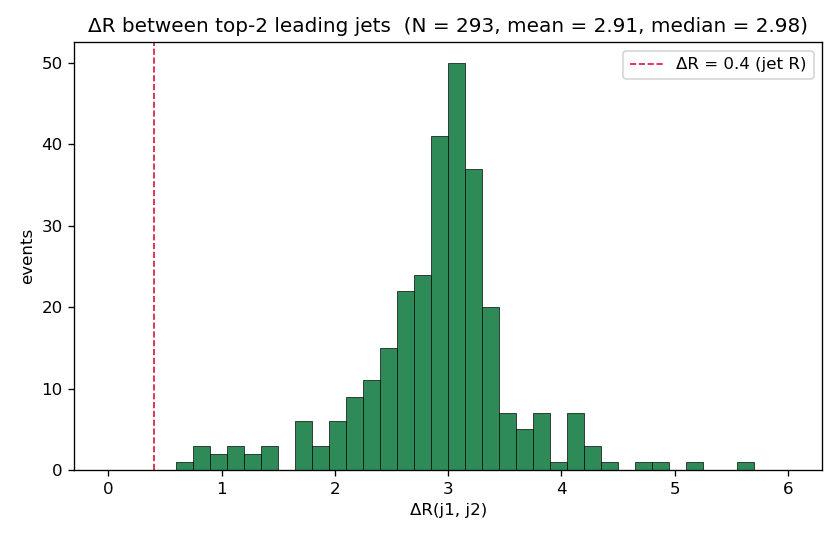
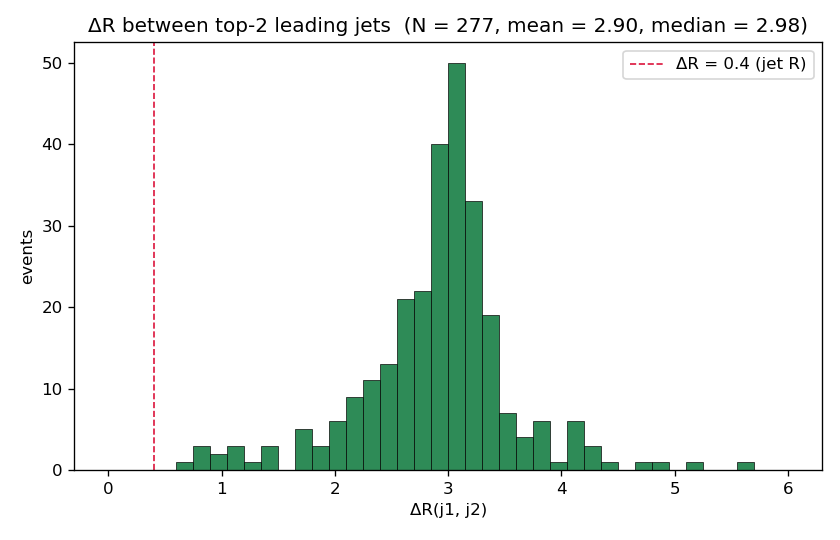
great analysis?

diff --git a/analysis/inspect_hbb_top_bottoms.py b/analysis/inspect_hbb_top_bottoms.py
@@ -54,6 +54,65 @@ DR_MATCH = 0.4
 B_HAD_MIN_PT = 5.0
 B_HAD_ETA_CUT = 3.5            # drop forward B-hadrons (beam remnants / ISR fakes)
 HIGGS_MASS = 125.0             # reference mass for plot/summary tolerance bands
+HIGGS_TOL  = 1.0               # tolerance (GeV) for "family invariant mass = MH"
+
+
+def find_higgs_family(raw_row: dict) -> dict | None:
+    """Try the n=1..4 orphan-group strategies from inspect_b_brothers.py and
+    return the matched family (the particle indices summing to MH), the
+    strategy number, and the matched mass. Returns None if no strategy
+    yielded a family with |M - 125| < HIGGS_TOL. Deferred import to avoid
+    the import cycle (inspect_b_brothers imports load_bb_event_ids from
+    this module)."""
+    from inspect_b_brothers import strategy_n_orphan_groups
+    pdg         = np.asarray(raw_row["pdg_id"],         dtype=np.int64)
+    vp          = np.asarray(raw_row["vertex_primary"], dtype=np.int64)
+    particle_id = np.asarray(raw_row["particle_id"],    dtype=np.int64)
+    parent_id   = np.asarray(raw_row["parent_id"],      dtype=np.int64)
+    px = np.asarray(raw_row["px"], dtype=np.float64)
+    py = np.asarray(raw_row["py"], dtype=np.float64)
+    pz = np.asarray(raw_row["pz"], dtype=np.float64)
+    E  = np.asarray(raw_row["energy"], dtype=np.float64)
+    for n in (1, 2, 3, 4):
+        res = strategy_n_orphan_groups(
+            n, pdg, vp, particle_id, parent_id, px, py, pz, E,
+        )
+        if res is not None:
+            return {"strategy": n, "mass": res["mass"],
+                    "particle_idxs": list(res["particle_idxs"])}
+    return None
+
+
+def top2_b_hadrons_in_family(raw_row: dict,
+                             family_idxs: list[int]) -> list[dict]:
+    """Pick the two highest-E B-hadrons inside the matched family. Returns
+    them in the same dict format the rest of this script expects."""
+    pdg = np.asarray(raw_row["pdg_id"],   dtype=np.int64)
+    px  = np.asarray(raw_row["px"],       dtype=np.float64)
+    py  = np.asarray(raw_row["py"],       dtype=np.float64)
+    pz  = np.asarray(raw_row["pz"],       dtype=np.float64)
+    E   = np.asarray(raw_row["energy"],   dtype=np.float64)
+
+    fam = np.asarray(family_idxs, dtype=int)
+    if fam.size == 0:
+        return []
+    is_B = np.isin(np.abs(pdg[fam]), list(B_HADRON_PDGS))
+    if not is_B.any():
+        return []
+    b_local = np.where(is_B)[0]
+    b_local = b_local[np.argsort(E[fam][b_local])[::-1]][:2]
+    out: list[dict] = []
+    for li in b_local:
+        i = int(fam[li])
+        pt_i  = math.hypot(float(px[i]), float(py[i]))
+        eta_i = float(np.arcsinh(float(pz[i]) / max(pt_i, 1e-30)))
+        phi_i = math.atan2(float(py[i]), float(px[i]))
+        out.append({
+            "pdg": int(pdg[i]),
+            "pt":  pt_i, "eta": eta_i, "phi": phi_i,
+            "E":   float(E[i]),
+        })
+    return out
 
 
 def cluster_jets_event(pt, eta, phi,
@@ -474,28 +533,29 @@ def _process_single_file(file_idx: int, event_ids: list[int],
         eta = np.asarray(tp["eta"], dtype=np.float64)
         phi = np.asarray(tp["phi"], dtype=np.float64)
 
-        # 1. Get all distinct, central B-hadron directions (|η|<3.5, ΔR-clustered)
-        bhads_all = get_all_b_hadrons(raw_by_eid[eid])
-
-        # 2. Pick the two leading-pT B-hadron directions. In gg → H → bb̄,
-        #    the two Higgs daughters are usually the hardest B-hadrons in
-        #    the event; ISR/UE B-pairs are softer. This is right ~95% of
-        #    the time. The earlier "closest-to-125 GeV" heuristic failed
-        #    on boosted/asymmetric Higgs decays — when one Higgs leg sits
-        #    below an ISR B-hadron in pT, kinematics-fitting glued the
-        #    high-pT Higgs leg to the ISR B and missed the soft Higgs leg.
-        #    `get_all_b_hadrons` already returns ΔR>0.4-clustered B's sorted
-        #    by pT desc, so the first two satisfy the pair separation cut.
-        bhads = bhads_all[:2] if len(bhads_all) >= 2 else bhads_all[:1]
-        best_mass = (_mass_two_dict(bhads[0], bhads[1])
-                     if len(bhads) == 2 else 0.0)
-
+        # === New family-based identification (from inspect_b_brothers.py) ===
+        # 1. Find the Higgs decay family: try n=1..4 orphan-group strategies
+        #    until one yields a particle set whose invariant mass = MH=125.
+        family = find_higgs_family(raw_by_eid[eid])
         print(f"\n=== event {eid} ===")
         print(f"  {len(pt)} target particles  (target pT range {pt.min():.2f}-{pt.max():.2f})")
-        print(f"  found {len(bhads_all)} B-hadron candidates.")
-        if len(bhads) == 2:
-            print(f"  Selected top-2 leading-pT B-hadrons (M = {best_mass:.2f} GeV):")
-        
+        if family is None:
+            print(f"  ✗ no Higgs family identified by any strategy — skipping")
+            continue
+        family_idxs = family["particle_idxs"]
+        print(f"  ✓ Higgs family identified via strategy n={family['strategy']}  "
+              f"(M = {family['mass']:.4f} GeV, N_family = {len(family_idxs)})")
+
+        # 2. Pick the two highest-E B-hadrons FROM INSIDE that family — these
+        #    are the genuine Higgs daughters' b-quark proxies (not event-wide
+        #    leading B-hadrons, which can come from ISR / g→bb̄).
+        bhads = top2_b_hadrons_in_family(raw_by_eid[eid], family_idxs)
+        if len(bhads) < 2:
+            print(f"  fewer than 2 B-hadrons in family ({len(bhads)}) — "
+                  f"skipping (likely H→γγ/ττ/etc.)")
+            continue
+        best_mass = family["mass"]
+        print(f"  Top-2 B-hadrons inside the family (used for jet matching):")
         for k, b in enumerate(bhads, 1):
             print(f"    bH#{k}  pdg={b['pdg']:+5d}  pT={b['pt']:7.2f}  "
                   f"η={b['eta']:+.2f}  φ={b['phi']:+.2f}  E={b['E']:7.2f}")
